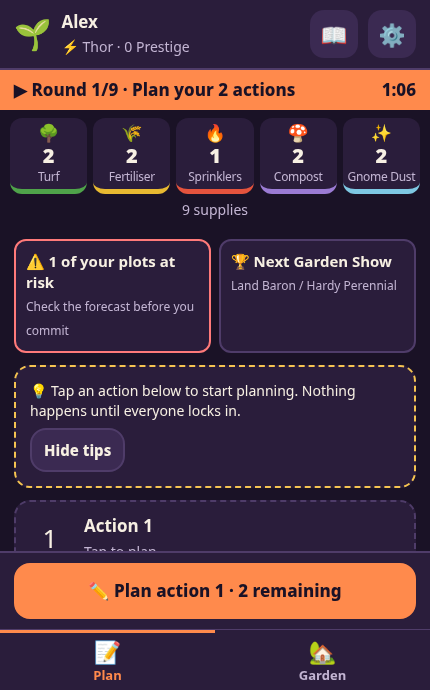
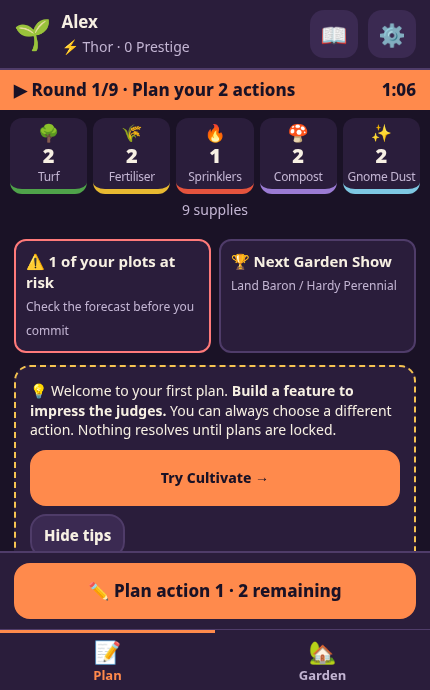
Add files via upload

Changed region(s): [[0.0302, 0.5478, 0.9674, 0.7913]]

diff --git a/test/phase4-protocol.test.js b/test/phase4-protocol.test.js
@@ -126,6 +126,15 @@ async function main() {
           'TV must not see Sympathy Vote options before choice');
         assert.deepEqual(phones[chooser].latest('state').sympathy.options,
           room.state.sympathy.options, 'chooser alone can see the three options');
+        // Events are publicly broadcast unless marked private. They must not
+        // accidentally disclose the options stripped from public snapshots.
+        for (const screen of [hostScreen, ...phones]) {
+          const announcements = screen.outbox.filter(m => m.name === 'events')
+            .flatMap(m => m.data).filter(e => e.type === 'sympathyStart');
+          assert.ok(announcements.length >= 1, 'TV and phones receive the public Sympathy start cue');
+          assert.ok(announcements.every(e => e.options === undefined),
+            'the public event stream must not leak Sympathy Vote options');
+        }
         for (let opponent = 0; opponent < seatCount; opponent++) {
           if (opponent !== chooser)
             assert.equal(phones[opponent].latest('state').sympathy.options, undefined,

diff --git a/test/phase5-first-run.test.js b/test/phase5-first-run.test.js
@@ -96,4 +96,11 @@ check('TV Pray path works with the lean serialised client topology', () => {
     prayEffect: { from: 'h1', to: 'missing' } });
   assert.doesNotMatch(safe, /animateMotion/);
 });
+check('TV Sympathy panel respects the private choice boundary', () => {
+  const tv = fs.readFileSync(path.join(root, 'public/v2/index.html'), 'utf8');
+  assert.match(tv, /Awaiting the judges' decision/);
+  assert.doesNotMatch(tv, /v\.options\.map/);
+  const engine = fs.readFileSync(path.join(root, 'src/engine/garden.js'), 'utf8');
+  assert.match(engine, /emit\(ctx, 'sympathyStart', \{ chooser \}\)/);
+});
 console.log(`✔ All ${passed} Phase 5 contracts passed`);

diff --git a/src/engine/garden.js b/src/engine/garden.js
@@ -352,7 +352,9 @@ function beginSympathy(ctx) {
   const options = shuffle(randFn(s), Object.keys(C.categories)).slice(0, C.sympathyVote.choices);
   s.sympathy = { chooser, nextIndex, options };
   setStep(ctx, 'sympathy', C.sympathyVote.durationSec);
-  emit(ctx, 'sympathyStart', { chooser, options });
+  // The three choices are private to the chooser's authenticated seat view.
+  // Never broadcast them in public events, even while the vote is pending.
+  emit(ctx, 'sympathyStart', { chooser });
   log(ctx, 'sympathy', `${nameOf(s, chooser)} has been given the Sympathy Vote.`);
 }
 function finishSympathy(ctx, category) {

diff --git a/CHANGELOG.md b/CHANGELOG.md
@@ -1,12 +1,12 @@
 # RAGNAGROK — Development Changelog
 
-## v1.2.0-dev.5 — CI repair and first-round accessibility (23 October 2026)
+## v1.2.0-dev.5 — Real CI repair and first-round accessibility (23 October 2026)
 
-- Updated the browser UI acceptance test for Standard default, Extended optional length, Pray and Sympathy Vote.
-- Added optional first-round action guidance that uses actual affordable, legal moves but never commits a move automatically.
-- Added screen-reader phase announcements, modal focus containment, Escape controls and reduced-motion support.
-- Added eight regression checks and three headless Chromium viewport checks at 320, 375 and 430 pixels.
-- No changes to scoring or game probabilities; further physical device and human playtesting remain necessary.
+- **GitHub real integration result:** Phase 4 CI successfully executed the real Socket.io V2 server integration suite, including reconnect, persistence and a full nine-round game. The subsequent phone UI test failed because it still assumed Long was the default; the browser robot was also outdated for Pray and Sympathy Vote. Updated these expectations and interactions so the genuine end-to-end suite can exercise the new game.
+- **First-time guidance:** Added an optional first-round action recommendation based solely on the player’s visible legal targets and current affordable hand. The shortcut opens the normal action picker and never submits an action automatically. Hide Tips still controls its visibility.
+- **Accessibility:** Polite screen-reader phase announcements, Tab/Shift+Tab modal focus containment, Escape support and reduced-motion handling; added eight offline checks and three headless Chromium tests at 320/375/430px.
+- **Quality gates:** All offline, game-mode and simulated-controller full-match suites pass; true end-to-end integration on this build needs a fresh GitHub Actions run. Physical phones/TV, actual disconnect conditions and human enjoyment are not yet verified. See `docs/PHASE5-VALIDATION.md`. No scoring or networking rules changed.
+
 
 ## v1.2.0-dev.4 — Multiplayer protocol acceptance and private decisions (23 October 2026)
 
